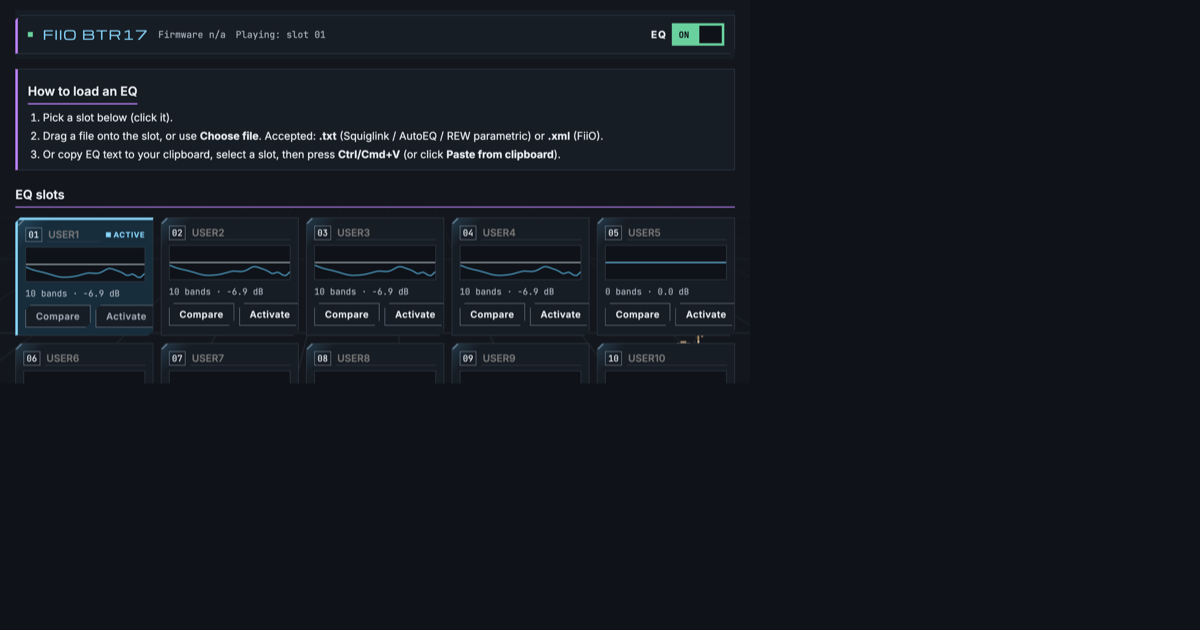
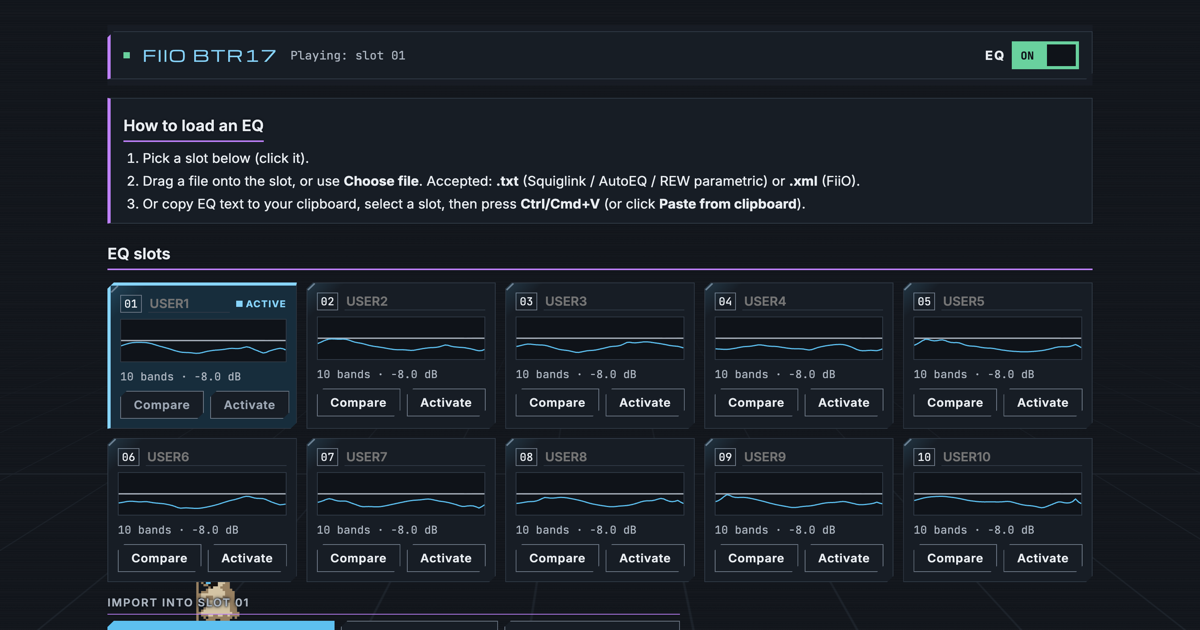
Refresh Discord/OG embed image with live 10-band capture; drop Firmware from header

diff --git a/index.html b/index.html
@@ -22,7 +22,7 @@
     <meta property="og:image" content="https://jchancoding.github.io/OzyBridge/og-image.png" />
     <meta property="og:image:width" content="1200" />
     <meta property="og:image:height" content="630" />
-    <meta property="og:image:alt" content="OzyBridge EQ workspace showing the BTR17 device bar, a grid of EQ slots with response curves, and import and export actions." />
+    <meta property="og:image:alt" content="OzyBridge EQ workspace showing the BTR17 device bar and a grid of ten EQ slots with response curves." />
 
     <meta name="twitter:card" content="summary_large_image" />
     <meta name="twitter:title" content="OzyBridge — Write EQ to your USB DAC from the browser" />

diff --git a/src/ui/Workspace.tsx b/src/ui/Workspace.tsx
@@ -396,7 +396,6 @@ export function Workspace({ adapter }: { adapter: DeviceAdapter }) {
         <header className="hud">
           <span className="hud-dot" />
           <span className="hud-title">{product}</span>
-          <span className="hud-item mono">Firmware {adapter.info.firmware ?? 'n/a'}</span>
           <span className="hud-item mono">
             Playing: {active === null ? '--' : userSlots.some((s) => s.id === active) ? `slot ${index(active)}` : eqOff ? 'EQ off' : 'built-in preset'}
           </span>
